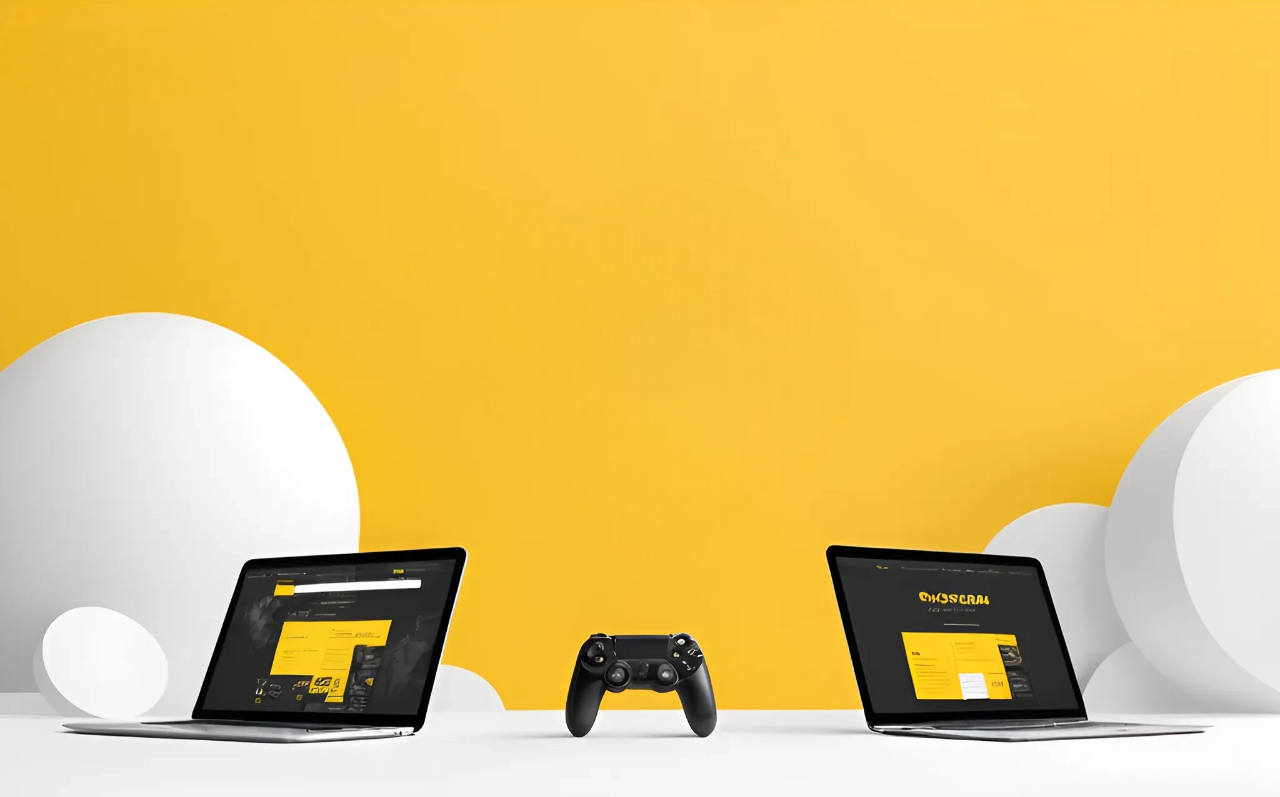
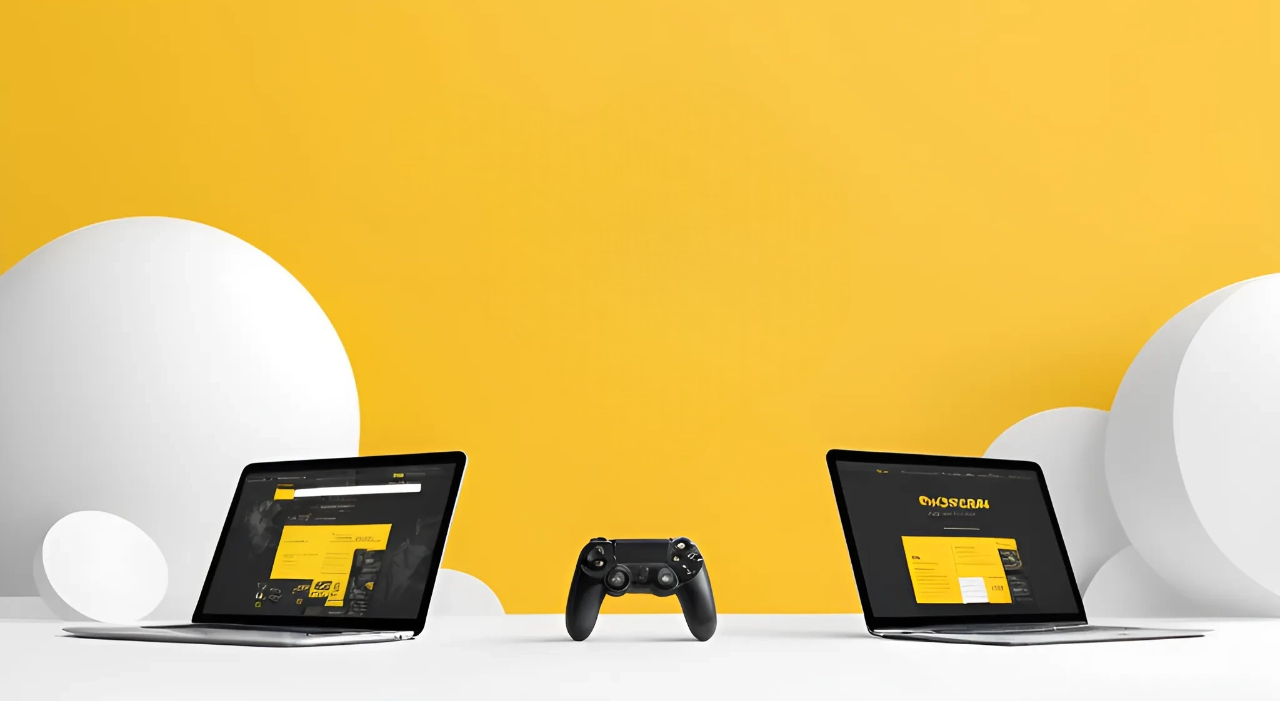
completed project

diff --git a/guesscard/script.js b/guesscard/script.js
@@ -40,7 +40,7 @@ function generateCards() {
     cardElement.classList.add("card");
     cardElement.setAttribute("data-name", card.name);
     cardElement.innerHTML = `
-      <div class="front">
+      <div class="front"   onClick="playMyAudio()">
         <img class="front-image" src=${card.image} />
       </div>
       <div class="back"></div>
@@ -134,6 +134,11 @@ function restart() {
   cardsfound = 0;
   playercount = 0;
   playerturn = true;
+  const winnerContainer = document.querySelector(".winner-container");
+  const winnerText = document.querySelector(".winner");
+  const gridContainer = document.querySelector(".grid-container");
+  gridContainer.style.display = "grid";
+  winnerContainer.style.display = "none";
   document.querySelector(".score1").textContent = score1;
   document.querySelector(".score2").textContent = score2;
   gridContainer.innerHTML = "";
@@ -146,4 +151,9 @@ function changePlayer() {
   }else {
     playerturn = true;
   }
+}
+
+
+function playMyAudio(){
+       document.getElementById("myAudio").play();
 }

diff --git a/guesscard/index.html b/guesscard/index.html
@@ -5,8 +5,10 @@
     <meta name="viewport" content="width=device-width, initial-scale=1.0">
     <title>Onamania</title>
     <link rel="stylesheet" href="/guesscard/style.css">
+    <link rel="icon" href="../Assets/logo.jpg"/>
 </head>
 <body>
+    <audio src="click.wav" id="myAudio"></audio>
     <div class="container">
         <h1>Guess the flower</h1>
         <div class="players">
@@ -30,3 +32,6 @@
 <script src="/guesscard/script.js"></script>
 </body>
 </html>
+
+<script>
+</script>

diff --git a/guesscard/style.css b/guesscard/style.css
@@ -44,8 +44,14 @@ p {
     background-color: #000;
     color: white;
     border: none;
+    transition: all ease-in-out 0.7s;
+    cursor: pointer;
 }
 
+.actions button:hover {
+    background-color: #fff;
+    color: #000;
+}
 .grid-container {
   display: grid;
   justify-content: center;
@@ -129,3 +135,11 @@ p {
     margin-bottom: 1rem;
     font-family: "Margarine", sans-serif !important;
 }
+
+
+.winner:hover {
+    color: #fff;
+
+}
+
+

diff --git a/index.html b/index.html
@@ -5,6 +5,7 @@
     <meta name="viewport" content="width=device-width, initial-scale=1.0">
     <title>Onamania</title>
     <link rel="stylesheet" href="style.css">
+    <link rel="icon" href="../Assets/logo.jpg"/>
 </head>
 <body>
     <!-- <nav class="navbar">

diff --git a/style.css b/style.css
@@ -46,6 +46,7 @@ nav a {
     color: #020202;
     margin-bottom: 1rem;
     font-family: "Margarine", sans-serif;
+    text-align: center;
 }
 
 .hero-content p {
